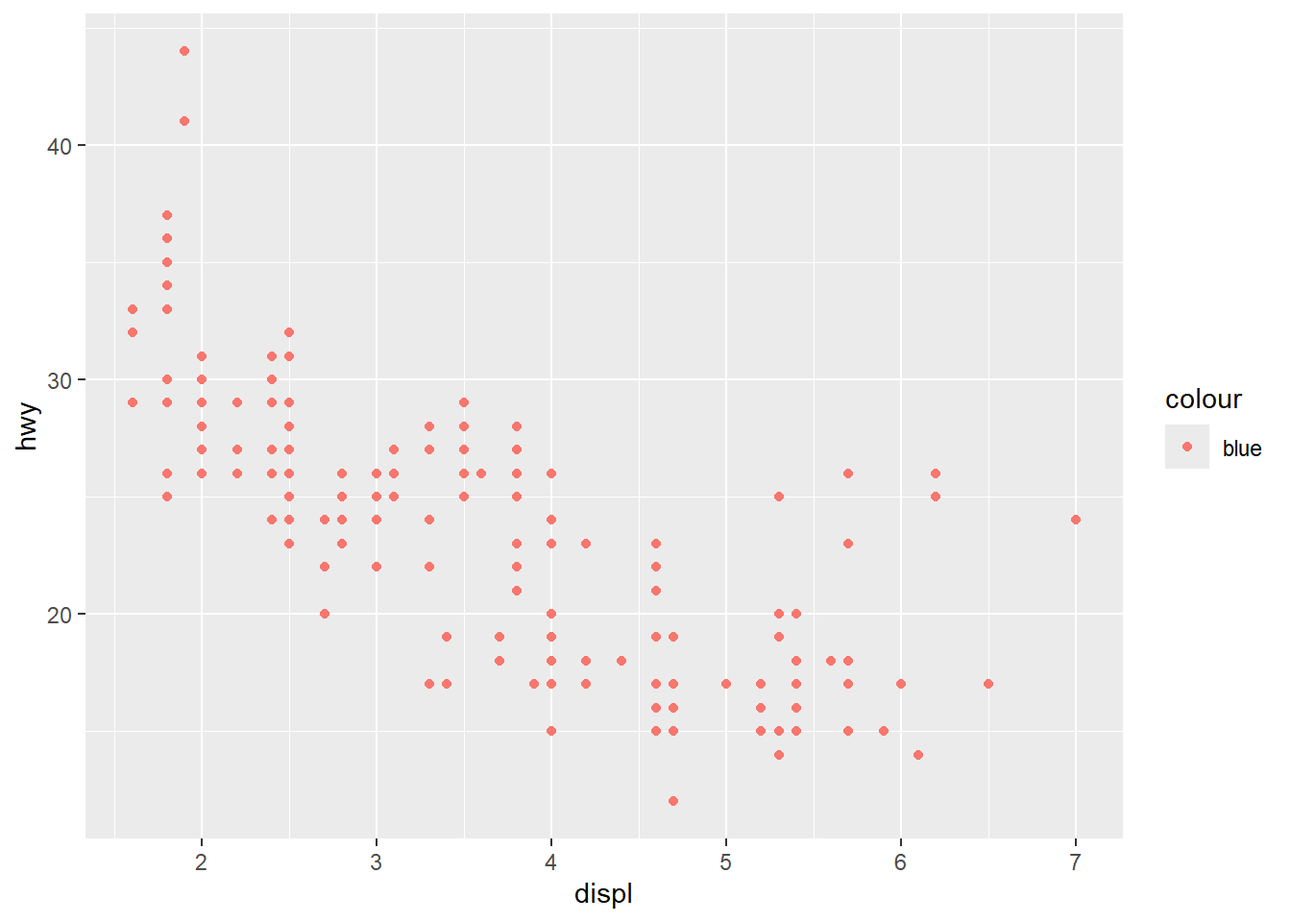
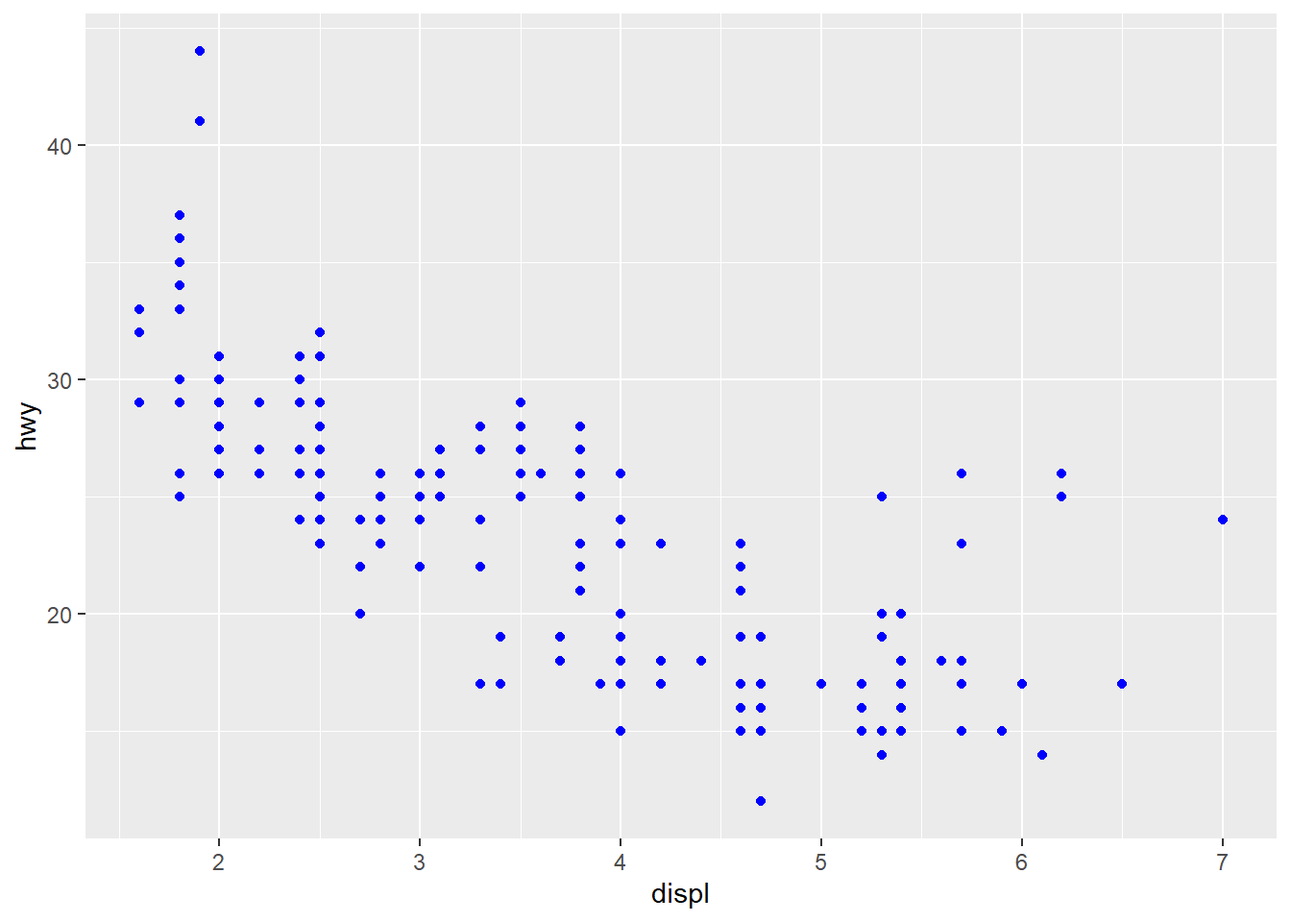
latest

diff --git a/docs/fuel-economy-data.html b/docs/fuel-economy-data.html
@@ -279,24 +279,31 @@ code span.wa { color: #60a0b0; font-weight: bold; font-style: italic; } /* Warni
 <h2>Fuel economy data<a href="fuel-economy-data.html#fuel-economy-data" class="anchor-section" aria-label="Anchor link to header"></a></h2>
 <div id="exercises" class="section level3 hasAnchor" number="1.0.1">
 <h3><span class="header-section-number">1.0.1</span> Exercises<a href="fuel-economy-data.html#exercises" class="anchor-section" aria-label="Anchor link to header"></a></h3>
-<div class="sourceCode" id="cb1"><pre class="sourceCode r"><code class="sourceCode r"><span id="cb1-1"><a href="fuel-economy-data.html#cb1-1" tabindex="-1"></a><span class="fu">library</span>(dplyr)</span></code></pre></div>
-<pre><code>## 
-## Attaching package: &#39;dplyr&#39;</code></pre>
-<pre><code>## The following objects are masked from &#39;package:stats&#39;:
-## 
-##     filter, lag</code></pre>
-<pre><code>## The following objects are masked from &#39;package:base&#39;:
-## 
-##     intersect, setdiff, setequal, union</code></pre>
-<div class="sourceCode" id="cb5"><pre class="sourceCode r"><code class="sourceCode r"><span id="cb5-1"><a href="fuel-economy-data.html#cb5-1" tabindex="-1"></a><span class="fu">library</span>(ggplot2)</span></code></pre></div>
+<div class="sourceCode" id="cb1"><pre class="sourceCode r"><code class="sourceCode r"><span id="cb1-1"><a href="fuel-economy-data.html#cb1-1" tabindex="-1"></a><span class="fu">library</span>(dplyr)</span>
+<span id="cb1-2"><a href="fuel-economy-data.html#cb1-2" tabindex="-1"></a><span class="fu">library</span>(ggplot2)</span></code></pre></div>
 <ul>
 <li>List five functions that you could use to get more information about the mpg dataset.</li>
 </ul>
-<p><code>summary, table, mean, sd, var, quantile, max, min, range, ncol, is.na</code></p>
+<p><code>summary, table, mean, sd, var, quantile, max, min, range, ncol, is.na</code> …</p>
 <ul>
 <li>How can you find out what other datasets are included with ggplot2?</li>
 </ul>
 <p><code>data(package = "ggplot2")</code></p>
+<pre><code>Data sets in package ‘ggplot2’:
+
+diamonds                    Prices of over 50,000 round cut diamonds
+economics                   US economic time series
+economics_long              US economic time series
+faithfuld                   2d density estimate of Old Faithful data
+luv_colours                 &#39;colors()&#39; in Luv space
+midwest                     Midwest demographics
+mpg                         Fuel economy data from 1999 to 2008 for 38 popular
+                            models of cars
+msleep                      An updated and expanded version of the mammals sleep
+                            dataset
+presidential                Terms of 12 presidents from Eisenhower to Trump
+seals                       Vector field of seal movements
+txhousing                   Housing sales in TX</code></pre>
 <ul>
 <li>Apart from the US, most countries use fuel consumption (fuel consumed over fixed distance) rather than fuel economy (distance travelled with fixed amount of fuel). How could you convert cty and hwy into the European standard of l/100km?</li>
 </ul>
@@ -304,7 +311,7 @@ code span.wa { color: #60a0b0; font-weight: bold; font-style: italic; } /* Warni
 <ul>
 <li>Which manufacturer has the most models in this dataset?</li>
 </ul>
-<div class="sourceCode" id="cb6"><pre class="sourceCode r"><code class="sourceCode r"><span id="cb6-1"><a href="fuel-economy-data.html#cb6-1" tabindex="-1"></a>mpg <span class="sc">%&gt;%</span> <span class="fu">count</span>(manufacturer) <span class="sc">%&gt;%</span> <span class="fu">arrange</span>(<span class="fu">desc</span>(n))</span></code></pre></div>
+<div class="sourceCode" id="cb3"><pre class="sourceCode r"><code class="sourceCode r"><span id="cb3-1"><a href="fuel-economy-data.html#cb3-1" tabindex="-1"></a>mpg <span class="sc">%&gt;%</span> <span class="fu">count</span>(manufacturer) <span class="sc">%&gt;%</span> <span class="fu">arrange</span>(<span class="fu">desc</span>(n))</span></code></pre></div>
 <pre><code>## # A tibble: 15 × 2
 ##    manufacturer     n
 ##    &lt;chr&gt;        &lt;int&gt;
@@ -323,24 +330,24 @@ code span.wa { color: #60a0b0; font-weight: bold; font-style: italic; } /* Warni
 ## 13 land rover       4
 ## 14 mercury          4
 ## 15 lincoln          3</code></pre>
-<div class="sourceCode" id="cb8"><pre class="sourceCode r"><code class="sourceCode r"><span id="cb8-1"><a href="fuel-economy-data.html#cb8-1" tabindex="-1"></a>mpg <span class="sc">|&gt;</span></span>
-<span id="cb8-2"><a href="fuel-economy-data.html#cb8-2" tabindex="-1"></a>  <span class="fu">group_by</span>(manufacturer) <span class="sc">|&gt;</span></span>
-<span id="cb8-3"><a href="fuel-economy-data.html#cb8-3" tabindex="-1"></a>  <span class="fu">summarise</span>(<span class="at">n =</span> <span class="fu">n</span>()) <span class="sc">|&gt;</span> </span>
-<span id="cb8-4"><a href="fuel-economy-data.html#cb8-4" tabindex="-1"></a>  <span class="fu">filter</span>(n <span class="sc">==</span> <span class="fu">max</span>(n))</span></code></pre></div>
+<div class="sourceCode" id="cb5"><pre class="sourceCode r"><code class="sourceCode r"><span id="cb5-1"><a href="fuel-economy-data.html#cb5-1" tabindex="-1"></a>mpg <span class="sc">|&gt;</span></span>
+<span id="cb5-2"><a href="fuel-economy-data.html#cb5-2" tabindex="-1"></a>  <span class="fu">group_by</span>(manufacturer) <span class="sc">|&gt;</span></span>
+<span id="cb5-3"><a href="fuel-economy-data.html#cb5-3" tabindex="-1"></a>  <span class="fu">summarise</span>(<span class="at">n =</span> <span class="fu">n</span>()) <span class="sc">|&gt;</span> </span>
+<span id="cb5-4"><a href="fuel-economy-data.html#cb5-4" tabindex="-1"></a>  <span class="fu">filter</span>(n <span class="sc">==</span> <span class="fu">max</span>(n))</span></code></pre></div>
 <pre><code>## # A tibble: 1 × 2
 ##   manufacturer     n
 ##   &lt;chr&gt;        &lt;int&gt;
 ## 1 dodge           37</code></pre>
-<div class="sourceCode" id="cb10"><pre class="sourceCode r"><code class="sourceCode r"><span id="cb10-1"><a href="fuel-economy-data.html#cb10-1" tabindex="-1"></a><span class="fu">tapply</span>(mpg<span class="sc">$</span>manufacturer, <span class="at">INDEX =</span> mpg<span class="sc">$</span>manufacturer, <span class="at">FUN =</span> length) <span class="sc">|&gt;</span> </span>
-<span id="cb10-2"><a href="fuel-economy-data.html#cb10-2" tabindex="-1"></a>  <span class="co"># which.max()</span></span>
-<span id="cb10-3"><a href="fuel-economy-data.html#cb10-3" tabindex="-1"></a>  <span class="fu">sort</span>() <span class="sc">|&gt;</span> </span>
-<span id="cb10-4"><a href="fuel-economy-data.html#cb10-4" tabindex="-1"></a>  <span class="fu">tail</span>(<span class="dv">1</span>)</span></code></pre></div>
+<div class="sourceCode" id="cb7"><pre class="sourceCode r"><code class="sourceCode r"><span id="cb7-1"><a href="fuel-economy-data.html#cb7-1" tabindex="-1"></a><span class="fu">tapply</span>(mpg<span class="sc">$</span>manufacturer, <span class="at">INDEX =</span> mpg<span class="sc">$</span>manufacturer, <span class="at">FUN =</span> length) <span class="sc">|&gt;</span> </span>
+<span id="cb7-2"><a href="fuel-economy-data.html#cb7-2" tabindex="-1"></a>  <span class="co"># which.max()</span></span>
+<span id="cb7-3"><a href="fuel-economy-data.html#cb7-3" tabindex="-1"></a>  <span class="fu">sort</span>() <span class="sc">|&gt;</span> </span>
+<span id="cb7-4"><a href="fuel-economy-data.html#cb7-4" tabindex="-1"></a>  <span class="fu">tail</span>(<span class="dv">1</span>)</span></code></pre></div>
 <pre><code>## dodge 
 ##    37</code></pre>
 <ul>
 <li>Which model has the most variations?</li>
 </ul>
-<div class="sourceCode" id="cb12"><pre class="sourceCode r"><code class="sourceCode r"><span id="cb12-1"><a href="fuel-economy-data.html#cb12-1" tabindex="-1"></a>mpg <span class="sc">%&gt;%</span> <span class="fu">count</span>(model) <span class="sc">%&gt;%</span> <span class="fu">arrange</span>(<span class="fu">desc</span>(n))</span></code></pre></div>
+<div class="sourceCode" id="cb9"><pre class="sourceCode r"><code class="sourceCode r"><span id="cb9-1"><a href="fuel-economy-data.html#cb9-1" tabindex="-1"></a>mpg <span class="sc">%&gt;%</span> <span class="fu">count</span>(model) <span class="sc">%&gt;%</span> <span class="fu">arrange</span>(<span class="fu">desc</span>(n))</span></code></pre></div>
 <pre><code>## # A tibble: 38 × 2
 ##    model                   n
 ##    &lt;chr&gt;               &lt;int&gt;
@@ -358,12 +365,12 @@ code span.wa { color: #60a0b0; font-weight: bold; font-style: italic; } /* Warni
 <ul>
 <li>Does your answer change if you remove the redundant specification of drive train (e.g. “pathfinder 4wd”, “a4 quattro”) from the model name?</li>
 </ul>
-<div class="sourceCode" id="cb14"><pre class="sourceCode r"><code class="sourceCode r"><span id="cb14-1"><a href="fuel-economy-data.html#cb14-1" tabindex="-1"></a>mpg <span class="sc">%&gt;%</span></span>
-<span id="cb14-2"><a href="fuel-economy-data.html#cb14-2" tabindex="-1"></a>  <span class="fu">mutate</span>(<span class="at">model =</span> <span class="fu">sub</span>(<span class="st">&quot; 4wd&quot;</span>, <span class="st">&quot;&quot;</span>, model),</span>
-<span id="cb14-3"><a href="fuel-economy-data.html#cb14-3" tabindex="-1"></a>         <span class="at">model =</span> <span class="fu">sub</span>(<span class="st">&quot; awd&quot;</span>, <span class="st">&quot;&quot;</span>, model),</span>
-<span id="cb14-4"><a href="fuel-economy-data.html#cb14-4" tabindex="-1"></a>         <span class="at">model =</span> <span class="fu">sub</span>(<span class="st">&quot; 2wd&quot;</span>, <span class="st">&quot;&quot;</span>, model),</span>
-<span id="cb14-5"><a href="fuel-economy-data.html#cb14-5" tabindex="-1"></a>         <span class="at">model =</span> <span class="fu">sub</span>(<span class="st">&quot; quattro&quot;</span>, <span class="st">&quot;&quot;</span>, model)</span>
-<span id="cb14-6"><a href="fuel-economy-data.html#cb14-6" tabindex="-1"></a>         ) <span class="sc">%&gt;%</span> <span class="fu">count</span>(model) <span class="sc">%&gt;%</span> <span class="fu">arrange</span>(<span class="fu">desc</span>(n))</span></code></pre></div>
+<div class="sourceCode" id="cb11"><pre class="sourceCode r"><code class="sourceCode r"><span id="cb11-1"><a href="fuel-economy-data.html#cb11-1" tabindex="-1"></a>mpg <span class="sc">%&gt;%</span></span>
+<span id="cb11-2"><a href="fuel-economy-data.html#cb11-2" tabindex="-1"></a>  <span class="fu">mutate</span>(<span class="at">model =</span> <span class="fu">sub</span>(<span class="st">&quot; 4wd&quot;</span>, <span class="st">&quot;&quot;</span>, model),</span>
+<span id="cb11-3"><a href="fuel-economy-data.html#cb11-3" tabindex="-1"></a>         <span class="at">model =</span> <span class="fu">sub</span>(<span class="st">&quot; awd&quot;</span>, <span class="st">&quot;&quot;</span>, model),</span>
+<span id="cb11-4"><a href="fuel-economy-data.html#cb11-4" tabindex="-1"></a>         <span class="at">model =</span> <span class="fu">sub</span>(<span class="st">&quot; 2wd&quot;</span>, <span class="st">&quot;&quot;</span>, model),</span>
+<span id="cb11-5"><a href="fuel-economy-data.html#cb11-5" tabindex="-1"></a>         <span class="at">model =</span> <span class="fu">sub</span>(<span class="st">&quot; quattro&quot;</span>, <span class="st">&quot;&quot;</span>, model)</span>
+<span id="cb11-6"><a href="fuel-economy-data.html#cb11-6" tabindex="-1"></a>         ) <span class="sc">%&gt;%</span> <span class="fu">count</span>(model) <span class="sc">%&gt;%</span> <span class="fu">arrange</span>(<span class="fu">desc</span>(n))</span></code></pre></div>
 <pre><code>## # A tibble: 37 × 2
 ##    model               n
 ##    &lt;chr&gt;           &lt;int&gt;

diff --git a/docs/facets.html b/docs/facets.html
@@ -282,9 +282,9 @@ code span.wa { color: #60a0b0; font-weight: bold; font-style: italic; } /* Warni
 <li><p>grid and wrapped</p></li>
 <li><p>when to use this vs aesthetics?</p></li>
 </ul>
-<div class="sourceCode" id="cb38"><pre class="sourceCode r"><code class="sourceCode r"><span id="cb38-1"><a href="facets.html#cb38-1" tabindex="-1"></a><span class="fu">ggplot</span>(mpg, <span class="fu">aes</span>(displ, hwy)) <span class="sc">+</span> </span>
-<span id="cb38-2"><a href="facets.html#cb38-2" tabindex="-1"></a>  <span class="fu">geom_point</span>() <span class="sc">+</span> </span>
-<span id="cb38-3"><a href="facets.html#cb38-3" tabindex="-1"></a>  <span class="fu">facet_wrap</span>(<span class="sc">~</span>class)</span></code></pre></div>
+<div class="sourceCode" id="cb35"><pre class="sourceCode r"><code class="sourceCode r"><span id="cb35-1"><a href="facets.html#cb35-1" tabindex="-1"></a><span class="fu">ggplot</span>(mpg, <span class="fu">aes</span>(displ, hwy)) <span class="sc">+</span> </span>
+<span id="cb35-2"><a href="facets.html#cb35-2" tabindex="-1"></a>  <span class="fu">geom_point</span>() <span class="sc">+</span> </span>
+<span id="cb35-3"><a href="facets.html#cb35-3" tabindex="-1"></a>  <span class="fu">facet_wrap</span>(<span class="sc">~</span>class)</span></code></pre></div>
 <p><img src="bookclub-ggplot2_files/figure-html/unnamed-chunk-23-1.png" width="672" /></p>
 <div id="exercises-3" class="section level3 unnumbered hasAnchor">
 <h3>Exercises<a href="facets.html#exercises-3" class="anchor-section" aria-label="Anchor link to header"></a></h3>
@@ -294,20 +294,20 @@ code span.wa { color: #60a0b0; font-weight: bold; font-style: italic; } /* Warni
 <ul>
 <li>divides in to <code>bins</code></li>
 </ul>
-<div class="sourceCode" id="cb39"><pre class="sourceCode r"><code class="sourceCode r"><span id="cb39-1"><a href="facets.html#cb39-1" tabindex="-1"></a><span class="fu">ggplot</span>(mpg, <span class="fu">aes</span>(displ, cty)) <span class="sc">+</span></span>
-<span id="cb39-2"><a href="facets.html#cb39-2" tabindex="-1"></a>  <span class="fu">geom_point</span>() <span class="sc">+</span></span>
-<span id="cb39-3"><a href="facets.html#cb39-3" tabindex="-1"></a>  <span class="fu">facet_wrap</span>(<span class="sc">~</span> hwy)</span></code></pre></div>
+<div class="sourceCode" id="cb36"><pre class="sourceCode r"><code class="sourceCode r"><span id="cb36-1"><a href="facets.html#cb36-1" tabindex="-1"></a><span class="fu">ggplot</span>(mpg, <span class="fu">aes</span>(displ, cty)) <span class="sc">+</span></span>
+<span id="cb36-2"><a href="facets.html#cb36-2" tabindex="-1"></a>  <span class="fu">geom_point</span>() <span class="sc">+</span></span>
+<span id="cb36-3"><a href="facets.html#cb36-3" tabindex="-1"></a>  <span class="fu">facet_wrap</span>(<span class="sc">~</span> hwy)</span></code></pre></div>
 <p><img src="bookclub-ggplot2_files/figure-html/unnamed-chunk-24-1.png" width="672" /></p>
-<div class="sourceCode" id="cb40"><pre class="sourceCode r"><code class="sourceCode r"><span id="cb40-1"><a href="facets.html#cb40-1" tabindex="-1"></a><span class="fu">ggplot</span>(mpg, <span class="fu">aes</span>(displ, cty)) <span class="sc">+</span></span>
-<span id="cb40-2"><a href="facets.html#cb40-2" tabindex="-1"></a>  <span class="fu">geom_point</span>() <span class="sc">+</span></span>
-<span id="cb40-3"><a href="facets.html#cb40-3" tabindex="-1"></a>  <span class="fu">facet_wrap</span>(<span class="sc">~</span> cyl)</span></code></pre></div>
+<div class="sourceCode" id="cb37"><pre class="sourceCode r"><code class="sourceCode r"><span id="cb37-1"><a href="facets.html#cb37-1" tabindex="-1"></a><span class="fu">ggplot</span>(mpg, <span class="fu">aes</span>(displ, cty)) <span class="sc">+</span></span>
+<span id="cb37-2"><a href="facets.html#cb37-2" tabindex="-1"></a>  <span class="fu">geom_point</span>() <span class="sc">+</span></span>
+<span id="cb37-3"><a href="facets.html#cb37-3" tabindex="-1"></a>  <span class="fu">facet_wrap</span>(<span class="sc">~</span> cyl)</span></code></pre></div>
 <p><img src="bookclub-ggplot2_files/figure-html/unnamed-chunk-25-1.png" width="672" /></p>
 <ol start="2" style="list-style-type: decimal">
 <li></li>
 </ol>
-<div class="sourceCode" id="cb41"><pre class="sourceCode r"><code class="sourceCode r"><span id="cb41-1"><a href="facets.html#cb41-1" tabindex="-1"></a><span class="fu">ggplot</span>(mpg, <span class="fu">aes</span>(displ, cty)) <span class="sc">+</span></span>
-<span id="cb41-2"><a href="facets.html#cb41-2" tabindex="-1"></a>  <span class="fu">geom_point</span>() <span class="sc">+</span></span>
-<span id="cb41-3"><a href="facets.html#cb41-3" tabindex="-1"></a>  <span class="fu">facet_wrap</span>(<span class="sc">~</span> cyl)</span></code></pre></div>
+<div class="sourceCode" id="cb38"><pre class="sourceCode r"><code class="sourceCode r"><span id="cb38-1"><a href="facets.html#cb38-1" tabindex="-1"></a><span class="fu">ggplot</span>(mpg, <span class="fu">aes</span>(displ, cty)) <span class="sc">+</span></span>
+<span id="cb38-2"><a href="facets.html#cb38-2" tabindex="-1"></a>  <span class="fu">geom_point</span>() <span class="sc">+</span></span>
+<span id="cb38-3"><a href="facets.html#cb38-3" tabindex="-1"></a>  <span class="fu">facet_wrap</span>(<span class="sc">~</span> cyl)</span></code></pre></div>
 <p><img src="bookclub-ggplot2_files/figure-html/unnamed-chunk-26-1.png" width="672" /></p>
 <ul>
 <li>no. cyclinders increase -&gt; bigger engines, more fuel consumption</li>
@@ -315,13 +315,13 @@ code span.wa { color: #60a0b0; font-weight: bold; font-style: italic; } /* Warni
 <ol start="3" style="list-style-type: decimal">
 <li></li>
 </ol>
-<div class="sourceCode" id="cb42"><pre class="sourceCode r"><code class="sourceCode r"><span id="cb42-1"><a href="facets.html#cb42-1" tabindex="-1"></a><span class="fu">ggplot</span>(mpg, <span class="fu">aes</span>(displ, cty)) <span class="sc">+</span></span>
-<span id="cb42-2"><a href="facets.html#cb42-2" tabindex="-1"></a>  <span class="fu">geom_point</span>() <span class="sc">+</span></span>
-<span id="cb42-3"><a href="facets.html#cb42-3" tabindex="-1"></a>  <span class="fu">facet_wrap</span>(<span class="sc">~</span> class, <span class="at">nrow =</span> <span class="dv">2</span>, <span class="at">ncol =</span> <span class="dv">4</span>)</span></code></pre></div>
+<div class="sourceCode" id="cb39"><pre class="sourceCode r"><code class="sourceCode r"><span id="cb39-1"><a href="facets.html#cb39-1" tabindex="-1"></a><span class="fu">ggplot</span>(mpg, <span class="fu">aes</span>(displ, cty)) <span class="sc">+</span></span>
+<span id="cb39-2"><a href="facets.html#cb39-2" tabindex="-1"></a>  <span class="fu">geom_point</span>() <span class="sc">+</span></span>
+<span id="cb39-3"><a href="facets.html#cb39-3" tabindex="-1"></a>  <span class="fu">facet_wrap</span>(<span class="sc">~</span> class, <span class="at">nrow =</span> <span class="dv">2</span>, <span class="at">ncol =</span> <span class="dv">4</span>)</span></code></pre></div>
 <p><img src="bookclub-ggplot2_files/figure-html/unnamed-chunk-27-1.png" width="672" /></p>
-<div class="sourceCode" id="cb43"><pre class="sourceCode r"><code class="sourceCode r"><span id="cb43-1"><a href="facets.html#cb43-1" tabindex="-1"></a><span class="fu">ggplot</span>(mpg, <span class="fu">aes</span>(displ, cty)) <span class="sc">+</span></span>
-<span id="cb43-2"><a href="facets.html#cb43-2" tabindex="-1"></a>  <span class="fu">geom_point</span>() <span class="sc">+</span></span>
-<span id="cb43-3"><a href="facets.html#cb43-3" tabindex="-1"></a>  <span class="fu">facet_wrap</span>(<span class="sc">~</span> class, <span class="at">nrow =</span> <span class="dv">2</span>)</span></code></pre></div>
+<div class="sourceCode" id="cb40"><pre class="sourceCode r"><code class="sourceCode r"><span id="cb40-1"><a href="facets.html#cb40-1" tabindex="-1"></a><span class="fu">ggplot</span>(mpg, <span class="fu">aes</span>(displ, cty)) <span class="sc">+</span></span>
+<span id="cb40-2"><a href="facets.html#cb40-2" tabindex="-1"></a>  <span class="fu">geom_point</span>() <span class="sc">+</span></span>
+<span id="cb40-3"><a href="facets.html#cb40-3" tabindex="-1"></a>  <span class="fu">facet_wrap</span>(<span class="sc">~</span> class, <span class="at">nrow =</span> <span class="dv">2</span>)</span></code></pre></div>
 <p><img src="bookclub-ggplot2_files/figure-html/unnamed-chunk-28-1.png" width="672" /></p>
 <ol start="4" style="list-style-type: decimal">
 <li></li>
@@ -337,9 +337,9 @@ code span.wa { color: #60a0b0; font-weight: bold; font-style: italic; } /* Warni
 </ul></li>
 <li><p>use when scale are different/the same</p></li>
 </ul>
-<div class="sourceCode" id="cb44"><pre class="sourceCode r"><code class="sourceCode r"><span id="cb44-1"><a href="facets.html#cb44-1" tabindex="-1"></a><span class="fu">ggplot</span>(mpg, <span class="fu">aes</span>(displ, cty)) <span class="sc">+</span></span>
-<span id="cb44-2"><a href="facets.html#cb44-2" tabindex="-1"></a>  <span class="fu">geom_point</span>() <span class="sc">+</span></span>
-<span id="cb44-3"><a href="facets.html#cb44-3" tabindex="-1"></a>  <span class="fu">facet_wrap</span>(<span class="sc">~</span> class, <span class="at">scales =</span> <span class="st">&quot;free&quot;</span>)</span></code></pre></div>
+<div class="sourceCode" id="cb41"><pre class="sourceCode r"><code class="sourceCode r"><span id="cb41-1"><a href="facets.html#cb41-1" tabindex="-1"></a><span class="fu">ggplot</span>(mpg, <span class="fu">aes</span>(displ, cty)) <span class="sc">+</span></span>
+<span id="cb41-2"><a href="facets.html#cb41-2" tabindex="-1"></a>  <span class="fu">geom_point</span>() <span class="sc">+</span></span>
+<span id="cb41-3"><a href="facets.html#cb41-3" tabindex="-1"></a>  <span class="fu">facet_wrap</span>(<span class="sc">~</span> class, <span class="at">scales =</span> <span class="st">&quot;free&quot;</span>)</span></code></pre></div>
 <p><img src="bookclub-ggplot2_files/figure-html/unnamed-chunk-29-1.png" width="672" /></p>
 </div>
 </div>

diff --git a/docs/key-components.html b/docs/key-components.html
@@ -284,19 +284,19 @@ code span.wa { color: #60a0b0; font-weight: bold; font-style: italic; } /* Warni
 <li>geom</li>
 </ul>
 <p>e.g.</p>
-<div class="sourceCode" id="cb16"><pre class="sourceCode r"><code class="sourceCode r"><span id="cb16-1"><a href="key-components.html#cb16-1" tabindex="-1"></a><span class="fu">ggplot</span>(mpg, <span class="fu">aes</span>(<span class="at">x =</span> displ, <span class="at">y =</span> hwy)) <span class="sc">+</span> </span>
-<span id="cb16-2"><a href="key-components.html#cb16-2" tabindex="-1"></a>  <span class="fu">geom_point</span>()</span></code></pre></div>
+<div class="sourceCode" id="cb13"><pre class="sourceCode r"><code class="sourceCode r"><span id="cb13-1"><a href="key-components.html#cb13-1" tabindex="-1"></a><span class="fu">ggplot</span>(<span class="at">data =</span> mpg, <span class="fu">aes</span>(displ, hwy)) <span class="sc">+</span> </span>
+<span id="cb13-2"><a href="key-components.html#cb13-2" tabindex="-1"></a>  <span class="fu">geom_point</span>()</span></code></pre></div>
 <p><img src="bookclub-ggplot2_files/figure-html/unnamed-chunk-5-1.png" width="672" /></p>
-<div class="sourceCode" id="cb17"><pre class="sourceCode r"><code class="sourceCode r"><span id="cb17-1"><a href="key-components.html#cb17-1" tabindex="-1"></a><span class="fu">ggplot</span>() <span class="sc">+</span> </span>
-<span id="cb17-2"><a href="key-components.html#cb17-2" tabindex="-1"></a>  <span class="fu">geom_point</span>(mpg, <span class="fu">aes</span>(<span class="at">x =</span> displ, <span class="at">y =</span> hwy))</span></code></pre></div>
-<div class="sourceCode" id="cb18"><pre class="sourceCode r"><code class="sourceCode r"><span id="cb18-1"><a href="key-components.html#cb18-1" tabindex="-1"></a><span class="fu">ggplot</span>() <span class="sc">+</span> </span>
-<span id="cb18-2"><a href="key-components.html#cb18-2" tabindex="-1"></a>  <span class="fu">geom_point</span>(<span class="at">data =</span> mpg, <span class="at">mapping =</span> <span class="fu">aes</span>(<span class="at">x =</span> displ, <span class="at">y =</span> hwy))</span></code></pre></div>
+<div class="sourceCode" id="cb14"><pre class="sourceCode r"><code class="sourceCode r"><span id="cb14-1"><a href="key-components.html#cb14-1" tabindex="-1"></a><span class="fu">ggplot</span>() <span class="sc">+</span> </span>
+<span id="cb14-2"><a href="key-components.html#cb14-2" tabindex="-1"></a>  <span class="fu">geom_point</span>(<span class="at">data =</span> mpg, <span class="fu">aes</span>(<span class="at">x =</span> displ, <span class="at">y =</span> hwy))</span></code></pre></div>
+<div class="sourceCode" id="cb15"><pre class="sourceCode r"><code class="sourceCode r"><span id="cb15-1"><a href="key-components.html#cb15-1" tabindex="-1"></a><span class="fu">ggplot</span>() <span class="sc">+</span> </span>
+<span id="cb15-2"><a href="key-components.html#cb15-2" tabindex="-1"></a>  <span class="fu">geom_point</span>(<span class="at">data =</span> mpg, <span class="at">mapping =</span> <span class="fu">aes</span>(<span class="at">x =</span> displ, <span class="at">y =</span> hwy))</span></code></pre></div>
 <p><img src="bookclub-ggplot2_files/figure-html/unnamed-chunk-7-1.png" width="672" /></p>
-<div class="sourceCode" id="cb19"><pre class="sourceCode r"><code class="sourceCode r"><span id="cb19-1"><a href="key-components.html#cb19-1" tabindex="-1"></a><span class="fu">ggplot</span>() <span class="sc">+</span> </span>
-<span id="cb19-2"><a href="key-components.html#cb19-2" tabindex="-1"></a>  <span class="fu">geom_point</span>(<span class="at">data =</span> mpg, <span class="at">mapping =</span> <span class="fu">aes</span>(<span class="at">x =</span> displ, <span class="at">y =</span> hwy))</span></code></pre></div>
+<div class="sourceCode" id="cb16"><pre class="sourceCode r"><code class="sourceCode r"><span id="cb16-1"><a href="key-components.html#cb16-1" tabindex="-1"></a><span class="fu">ggplot</span>() <span class="sc">+</span> </span>
+<span id="cb16-2"><a href="key-components.html#cb16-2" tabindex="-1"></a>  <span class="fu">geom_point</span>(<span class="at">data =</span> mpg, <span class="at">mapping =</span> <span class="fu">aes</span>(<span class="at">x =</span> displ, <span class="at">y =</span> hwy))</span></code></pre></div>
 <p><img src="bookclub-ggplot2_files/figure-html/unnamed-chunk-8-1.png" width="672" /></p>
-<div class="sourceCode" id="cb20"><pre class="sourceCode r"><code class="sourceCode r"><span id="cb20-1"><a href="key-components.html#cb20-1" tabindex="-1"></a><span class="fu">ggplot</span>(midwest) <span class="sc">+</span> </span>
-<span id="cb20-2"><a href="key-components.html#cb20-2" tabindex="-1"></a>  <span class="fu">geom_point</span>(<span class="at">data =</span> mpg, <span class="fu">aes</span>(<span class="at">x =</span> displ, <span class="at">y =</span> hwy))</span></code></pre></div>
+<div class="sourceCode" id="cb17"><pre class="sourceCode r"><code class="sourceCode r"><span id="cb17-1"><a href="key-components.html#cb17-1" tabindex="-1"></a><span class="fu">ggplot</span>(<span class="at">data =</span> midwest) <span class="sc">+</span> </span>
+<span id="cb17-2"><a href="key-components.html#cb17-2" tabindex="-1"></a>  <span class="fu">geom_point</span>(<span class="at">data =</span> mpg, <span class="fu">aes</span>(<span class="at">x =</span> displ, <span class="at">y =</span> hwy))</span></code></pre></div>
 <p><img src="bookclub-ggplot2_files/figure-html/unnamed-chunk-9-1.png" width="672" /></p>
 </div>
             </section>

diff --git a/docs/exercises-1.html b/docs/exercises-1.html
@@ -280,8 +280,8 @@ code span.wa { color: #60a0b0; font-weight: bold; font-style: italic; } /* Warni
 <ol style="list-style-type: decimal">
 <li></li>
 </ol>
-<div class="sourceCode" id="cb21"><pre class="sourceCode r"><code class="sourceCode r"><span id="cb21-1"><a href="exercises-1.html#cb21-1" tabindex="-1"></a><span class="fu">ggplot</span>(mpg, <span class="fu">aes</span>(<span class="at">x =</span> cty, <span class="at">y =</span> hwy)) <span class="sc">+</span> </span>
-<span id="cb21-2"><a href="exercises-1.html#cb21-2" tabindex="-1"></a>  <span class="fu">geom_point</span>()</span></code></pre></div>
+<div class="sourceCode" id="cb18"><pre class="sourceCode r"><code class="sourceCode r"><span id="cb18-1"><a href="exercises-1.html#cb18-1" tabindex="-1"></a><span class="fu">ggplot</span>(mpg, <span class="fu">aes</span>(<span class="at">x =</span> cty, <span class="at">y =</span> hwy)) <span class="sc">+</span> </span>
+<span id="cb18-2"><a href="exercises-1.html#cb18-2" tabindex="-1"></a>  <span class="fu">geom_point</span>()</span></code></pre></div>
 <p><img src="bookclub-ggplot2_files/figure-html/unnamed-chunk-10-1.png" width="672" /></p>
 <ul>
 <li>directly correlated</li>
@@ -295,7 +295,7 @@ code span.wa { color: #60a0b0; font-weight: bold; font-style: italic; } /* Warni
 <ol start="2" style="list-style-type: decimal">
 <li></li>
 </ol>
-<div class="sourceCode" id="cb22"><pre class="sourceCode r"><code class="sourceCode r"><span id="cb22-1"><a href="exercises-1.html#cb22-1" tabindex="-1"></a><span class="fu">ggplot</span>(mpg, <span class="fu">aes</span>(model, manufacturer)) <span class="sc">+</span> <span class="fu">geom_point</span>()</span></code></pre></div>
+<div class="sourceCode" id="cb19"><pre class="sourceCode r"><code class="sourceCode r"><span id="cb19-1"><a href="exercises-1.html#cb19-1" tabindex="-1"></a><span class="fu">ggplot</span>(mpg, <span class="fu">aes</span>(model, manufacturer)) <span class="sc">+</span> <span class="fu">geom_point</span>()</span></code></pre></div>
 <p><img src="bookclub-ggplot2_files/figure-html/unnamed-chunk-11-1.png" width="672" /></p>
 <ul>
 <li><p>This plot maps model (specific car models) to the x-axis and manufacturer to the y-axis. Each point represents one observation in the dataset.</p></li>
@@ -315,13 +315,13 @@ code span.wa { color: #60a0b0; font-weight: bold; font-style: italic; } /* Warni
 <ol start="3" style="list-style-type: decimal">
 <li></li>
 </ol>
-<div class="sourceCode" id="cb23"><pre class="sourceCode r"><code class="sourceCode r"><span id="cb23-1"><a href="exercises-1.html#cb23-1" tabindex="-1"></a><span class="fu">ggplot</span>(mpg, <span class="fu">aes</span>(cty, hwy)) <span class="sc">+</span> <span class="fu">geom_point</span>()</span></code></pre></div>
+<div class="sourceCode" id="cb20"><pre class="sourceCode r"><code class="sourceCode r"><span id="cb20-1"><a href="exercises-1.html#cb20-1" tabindex="-1"></a><span class="fu">ggplot</span>(mpg, <span class="fu">aes</span>(cty, hwy)) <span class="sc">+</span> <span class="fu">geom_point</span>()</span></code></pre></div>
 <p><img src="bookclub-ggplot2_files/figure-html/unnamed-chunk-12-1.png" width="672" /></p>
-<div class="sourceCode" id="cb24"><pre class="sourceCode r"><code class="sourceCode r"><span id="cb24-1"><a href="exercises-1.html#cb24-1" tabindex="-1"></a><span class="fu">ggplot</span>(diamonds, <span class="fu">aes</span>(carat, price)) <span class="sc">+</span> <span class="fu">geom_point</span>()</span></code></pre></div>
+<div class="sourceCode" id="cb21"><pre class="sourceCode r"><code class="sourceCode r"><span id="cb21-1"><a href="exercises-1.html#cb21-1" tabindex="-1"></a><span class="fu">ggplot</span>(diamonds, <span class="fu">aes</span>(carat, price)) <span class="sc">+</span> <span class="fu">geom_point</span>()</span></code></pre></div>
 <p><img src="bookclub-ggplot2_files/figure-html/unnamed-chunk-13-1.png" width="672" /></p>
-<div class="sourceCode" id="cb25"><pre class="sourceCode r"><code class="sourceCode r"><span id="cb25-1"><a href="exercises-1.html#cb25-1" tabindex="-1"></a><span class="fu">ggplot</span>(economics, <span class="fu">aes</span>(date, unemploy)) <span class="sc">+</span> <span class="fu">geom_line</span>()</span></code></pre></div>
+<div class="sourceCode" id="cb22"><pre class="sourceCode r"><code class="sourceCode r"><span id="cb22-1"><a href="exercises-1.html#cb22-1" tabindex="-1"></a><span class="fu">ggplot</span>(economics, <span class="fu">aes</span>(date, unemploy)) <span class="sc">+</span> <span class="fu">geom_line</span>()</span></code></pre></div>
 <p><img src="bookclub-ggplot2_files/figure-html/unnamed-chunk-14-1.png" width="672" /></p>
-<div class="sourceCode" id="cb26"><pre class="sourceCode r"><code class="sourceCode r"><span id="cb26-1"><a href="exercises-1.html#cb26-1" tabindex="-1"></a><span class="fu">ggplot</span>(mpg, <span class="fu">aes</span>(cty)) <span class="sc">+</span> <span class="fu">geom_histogram</span>()</span></code></pre></div>
+<div class="sourceCode" id="cb23"><pre class="sourceCode r"><code class="sourceCode r"><span id="cb23-1"><a href="exercises-1.html#cb23-1" tabindex="-1"></a><span class="fu">ggplot</span>(mpg, <span class="fu">aes</span>(cty)) <span class="sc">+</span> <span class="fu">geom_histogram</span>()</span></code></pre></div>
 <pre><code>## `stat_bin()` using `bins = 30`. Pick better value with `binwidth`.</code></pre>
 <p><img src="bookclub-ggplot2_files/figure-html/unnamed-chunk-15-1.png" width="672" /></p>
 </div>

diff --git a/docs/exercises-2.html b/docs/exercises-2.html
@@ -286,18 +286,18 @@ code span.wa { color: #60a0b0; font-weight: bold; font-style: italic; } /* Warni
 <li>gradient scale</li>
 </ul></li>
 </ul>
-<div class="sourceCode" id="cb31"><pre class="sourceCode r"><code class="sourceCode r"><span id="cb31-1"><a href="exercises-2.html#cb31-1" tabindex="-1"></a><span class="fu">ggplot</span>(mpg, <span class="fu">aes</span>(cty, hwy, <span class="at">colour =</span> displ)) <span class="sc">+</span> <span class="fu">geom_point</span>()</span></code></pre></div>
+<div class="sourceCode" id="cb28"><pre class="sourceCode r"><code class="sourceCode r"><span id="cb28-1"><a href="exercises-2.html#cb28-1" tabindex="-1"></a><span class="fu">ggplot</span>(mpg, <span class="fu">aes</span>(cty, hwy, <span class="at">colour =</span> displ)) <span class="sc">+</span> <span class="fu">geom_point</span>()</span></code></pre></div>
 <p><img src="bookclub-ggplot2_files/figure-html/unnamed-chunk-18-1.png" width="672" /></p>
 <ul>
 <li>categorical variable</li>
 <li>unique colour</li>
 </ul>
-<div class="sourceCode" id="cb32"><pre class="sourceCode r"><code class="sourceCode r"><span id="cb32-1"><a href="exercises-2.html#cb32-1" tabindex="-1"></a><span class="fu">ggplot</span>(mpg, <span class="fu">aes</span>(cty, hwy, <span class="at">colour =</span> class)) <span class="sc">+</span> <span class="fu">geom_point</span>()</span></code></pre></div>
+<div class="sourceCode" id="cb29"><pre class="sourceCode r"><code class="sourceCode r"><span id="cb29-1"><a href="exercises-2.html#cb29-1" tabindex="-1"></a><span class="fu">ggplot</span>(mpg, <span class="fu">aes</span>(cty, hwy, <span class="at">colour =</span> class)) <span class="sc">+</span> <span class="fu">geom_point</span>()</span></code></pre></div>
 <p><img src="bookclub-ggplot2_files/figure-html/unnamed-chunk-19-1.png" width="672" /></p>
 <ul>
 <li>more than one aesthetic</li>
 </ul>
-<div class="sourceCode" id="cb33"><pre class="sourceCode r"><code class="sourceCode r"><span id="cb33-1"><a href="exercises-2.html#cb33-1" tabindex="-1"></a><span class="fu">ggplot</span>(mpg, <span class="fu">aes</span>(cty, hwy, <span class="at">colour =</span> class, <span class="at">size =</span> displ)) <span class="sc">+</span> <span class="fu">geom_point</span>()</span></code></pre></div>
+<div class="sourceCode" id="cb30"><pre class="sourceCode r"><code class="sourceCode r"><span id="cb30-1"><a href="exercises-2.html#cb30-1" tabindex="-1"></a><span class="fu">ggplot</span>(mpg, <span class="fu">aes</span>(cty, hwy, <span class="at">colour =</span> class, <span class="at">size =</span> displ)) <span class="sc">+</span> <span class="fu">geom_point</span>()</span></code></pre></div>
 <p><img src="bookclub-ggplot2_files/figure-html/unnamed-chunk-20-1.png" width="672" /></p>
 <ol start="2" style="list-style-type: decimal">
 <li></li>
@@ -308,12 +308,12 @@ code span.wa { color: #60a0b0; font-weight: bold; font-style: italic; } /* Warni
 <li>shapes discrete</li>
 </ul></li>
 </ul>
-<div class="sourceCode" id="cb34"><pre class="sourceCode r"><code class="sourceCode r"><span id="cb34-1"><a href="exercises-2.html#cb34-1" tabindex="-1"></a><span class="fu">ggplot</span>(mpg, <span class="fu">aes</span>(cty, hwy, <span class="at">shape =</span> displ)) <span class="sc">+</span> <span class="fu">geom_point</span>()</span></code></pre></div>
+<div class="sourceCode" id="cb31"><pre class="sourceCode r"><code class="sourceCode r"><span id="cb31-1"><a href="exercises-2.html#cb31-1" tabindex="-1"></a><span class="fu">ggplot</span>(mpg, <span class="fu">aes</span>(cty, hwy, <span class="at">shape =</span> displ)) <span class="sc">+</span> <span class="fu">geom_point</span>()</span></code></pre></div>
 <p><img src="https://www.datanovia.com/en/wp-content/uploads/dn-tutorials/ggplot2/figures/030-ggplot-point-shapes-r-pch-list-showing-different-point-shapes-in-rstudio-1.png" /></p>
 <ol start="3" style="list-style-type: decimal">
 <li></li>
 </ol>
-<div class="sourceCode" id="cb35"><pre class="sourceCode r"><code class="sourceCode r"><span id="cb35-1"><a href="exercises-2.html#cb35-1" tabindex="-1"></a><span class="fu">ggplot</span>(mpg, <span class="fu">aes</span>(cty, hwy, <span class="at">shape =</span> trans)) <span class="sc">+</span> <span class="fu">geom_point</span>()</span></code></pre></div>
+<div class="sourceCode" id="cb32"><pre class="sourceCode r"><code class="sourceCode r"><span id="cb32-1"><a href="exercises-2.html#cb32-1" tabindex="-1"></a><span class="fu">ggplot</span>(mpg, <span class="fu">aes</span>(cty, hwy, <span class="at">shape =</span> trans)) <span class="sc">+</span> <span class="fu">geom_point</span>()</span></code></pre></div>
 <pre><code>## Warning: The shape palette can deal with a maximum of 6 discrete values because more
 ## than 6 becomes difficult to discriminate
 ## ℹ you have requested 10 values. Consider specifying shapes manually if you need

diff --git a/docs/colour-size-shape-and-other-aesthetic-attributes.html b/docs/colour-size-shape-and-other-aesthetic-attributes.html
@@ -280,15 +280,15 @@ code span.wa { color: #60a0b0; font-weight: bold; font-style: italic; } /* Warni
 <ul>
 <li>ggplot2 takes care of the details of converting data (e.g., ‘f’, ‘r’, ‘4’) into aesthetics (e.g., ‘red’, ‘yellow’, ‘green’) with a scale.</li>
 </ul>
-<div class="sourceCode" id="cb28"><pre class="sourceCode r"><code class="sourceCode r"><span id="cb28-1"><a href="colour-size-shape-and-other-aesthetic-attributes.html#cb28-1" tabindex="-1"></a><span class="fu">ggplot</span>(mpg, <span class="fu">aes</span>(displ, hwy, <span class="at">colour =</span> class)) <span class="sc">+</span> </span>
-<span id="cb28-2"><a href="colour-size-shape-and-other-aesthetic-attributes.html#cb28-2" tabindex="-1"></a>  <span class="fu">geom_point</span>()</span></code></pre></div>
+<div class="sourceCode" id="cb25"><pre class="sourceCode r"><code class="sourceCode r"><span id="cb25-1"><a href="colour-size-shape-and-other-aesthetic-attributes.html#cb25-1" tabindex="-1"></a><span class="fu">ggplot</span>(mpg, <span class="fu">aes</span>(displ, hwy, <span class="at">colour =</span> class)) <span class="sc">+</span> </span>
+<span id="cb25-2"><a href="colour-size-shape-and-other-aesthetic-attributes.html#cb25-2" tabindex="-1"></a>  <span class="fu">geom_point</span>()</span></code></pre></div>
 <p><img src="bookclub-ggplot2_files/figure-html/unnamed-chunk-16-1.png" width="672" /></p>
 <ul>
 <li>no ‘scaling’</li>
 </ul>
-<div class="sourceCode" id="cb29"><pre class="sourceCode r"><code class="sourceCode r"><span id="cb29-1"><a href="colour-size-shape-and-other-aesthetic-attributes.html#cb29-1" tabindex="-1"></a><span class="fu">ggplot</span>(mpg, <span class="fu">aes</span>(displ, hwy)) <span class="sc">+</span> <span class="fu">geom_point</span>(<span class="fu">aes</span>(<span class="at">colour =</span> <span class="st">&quot;blue&quot;</span>))</span></code></pre></div>
+<div class="sourceCode" id="cb26"><pre class="sourceCode r"><code class="sourceCode r"><span id="cb26-1"><a href="colour-size-shape-and-other-aesthetic-attributes.html#cb26-1" tabindex="-1"></a><span class="fu">ggplot</span>(mpg, <span class="fu">aes</span>(displ, hwy)) <span class="sc">+</span> <span class="fu">geom_point</span>(<span class="at">colour =</span> <span class="st">&quot;blue&quot;</span>)</span></code></pre></div>
 <p><img src="bookclub-ggplot2_files/figure-html/unnamed-chunk-17-1.png" width="672" /></p>
-<div class="sourceCode" id="cb30"><pre class="sourceCode r"><code class="sourceCode r"><span id="cb30-1"><a href="colour-size-shape-and-other-aesthetic-attributes.html#cb30-1" tabindex="-1"></a><span class="fu">ggplot</span>(mpg, <span class="fu">aes</span>(displ, hwy)) <span class="sc">+</span> <span class="fu">geom_point</span>(<span class="at">colour =</span> <span class="st">&quot;blue&quot;</span>)</span></code></pre></div>
+<div class="sourceCode" id="cb27"><pre class="sourceCode r"><code class="sourceCode r"><span id="cb27-1"><a href="colour-size-shape-and-other-aesthetic-attributes.html#cb27-1" tabindex="-1"></a><span class="fu">ggplot</span>(mpg, <span class="fu">aes</span>(displ, hwy)) <span class="sc">+</span> <span class="fu">geom_point</span>(<span class="fu">aes</span>(<span class="at">colour =</span> <span class="st">&quot;blue&quot;</span>))</span></code></pre></div>
 <p><img src="bookclub-ggplot2_files/figure-html/unnamed-chunk-17-2.png" width="672" /></p>
 <ul>
 <li>the second plots doesn’t have a legend</li>

diff --git a/docs/other-r-graphics.html b/docs/other-r-graphics.html
@@ -278,11 +278,11 @@ code span.wa { color: #60a0b0; font-weight: bold; font-style: italic; } /* Warni
 <div id="other-r-graphics" class="section level2 unnumbered hasAnchor">
 <h2>Other R graphics<a href="other-r-graphics.html#other-r-graphics" class="anchor-section" aria-label="Anchor link to header"></a></h2>
 <ul>
-<li>Base R</li>
-<li>grid</li>
-<li>lattice</li>
-<li>htmlwidgets</li>
-<li>plotly</li>
+<li>Base <code>R</code></li>
+<li><code>grid</code></li>
+<li><code>lattice</code></li>
+<li><code>htmlwidgets</code></li>
+<li><code>plotly</code></li>
 </ul>
 </div>
             </section>

diff --git a/docs/first-steps.html b/docs/first-steps.html
@@ -279,8 +279,8 @@ code span.wa { color: #60a0b0; font-weight: bold; font-style: italic; } /* Warni
 <h1><span class="header-section-number">Chapter 1</span> First steps<a href="first-steps.html#first-steps" class="anchor-section" aria-label="Anchor link to header"></a></h1>
 <p><strong>Learning objectives:</strong></p>
 <ul>
-<li>the foundations of ggplot</li>
-<li>useful “recipes”</li>
+<li>The foundations of ggplot</li>
+<li>Useful “recipes”</li>
 <li>Fuel economy data use</li>
 </ul>
 </div>
